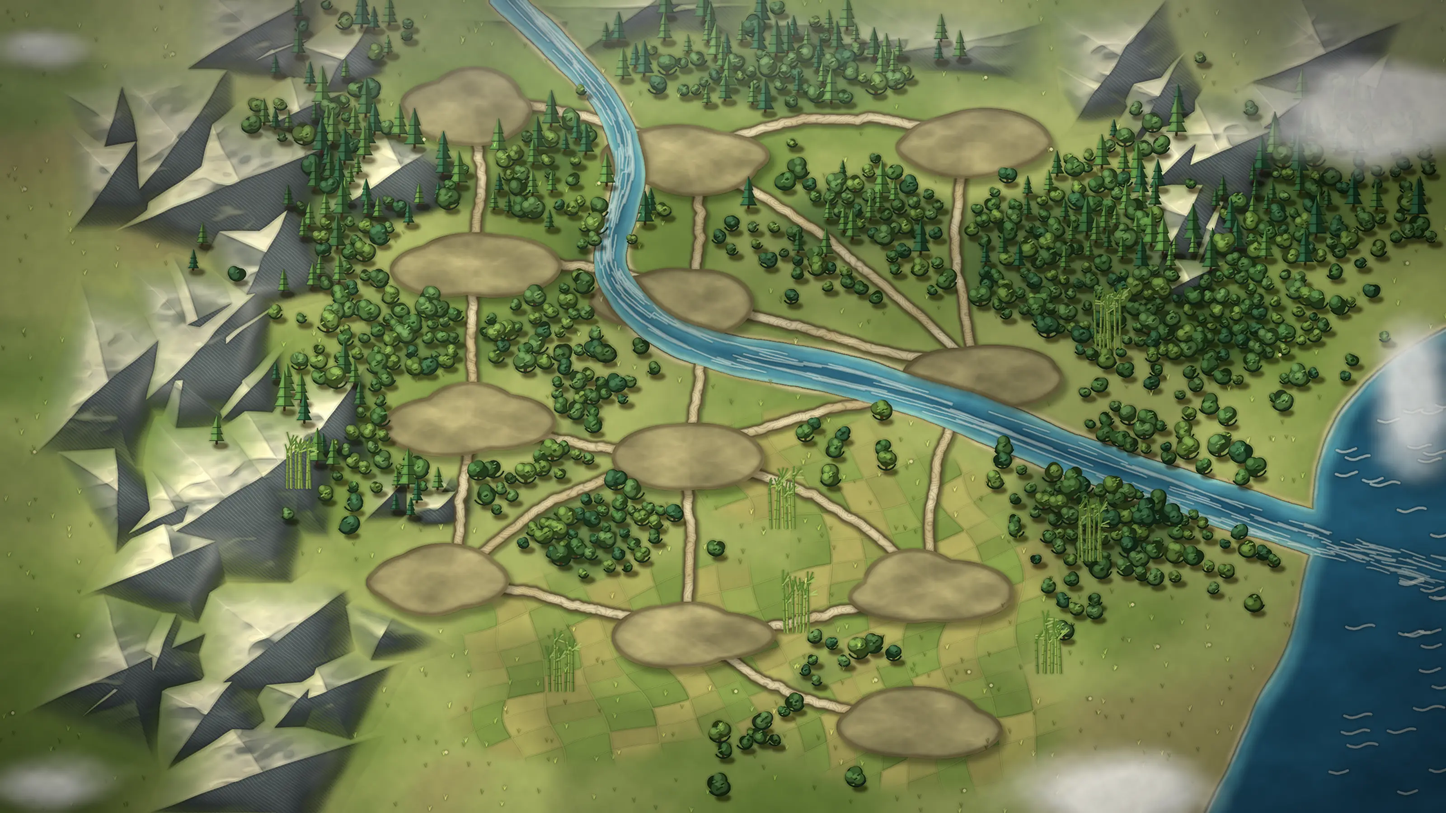
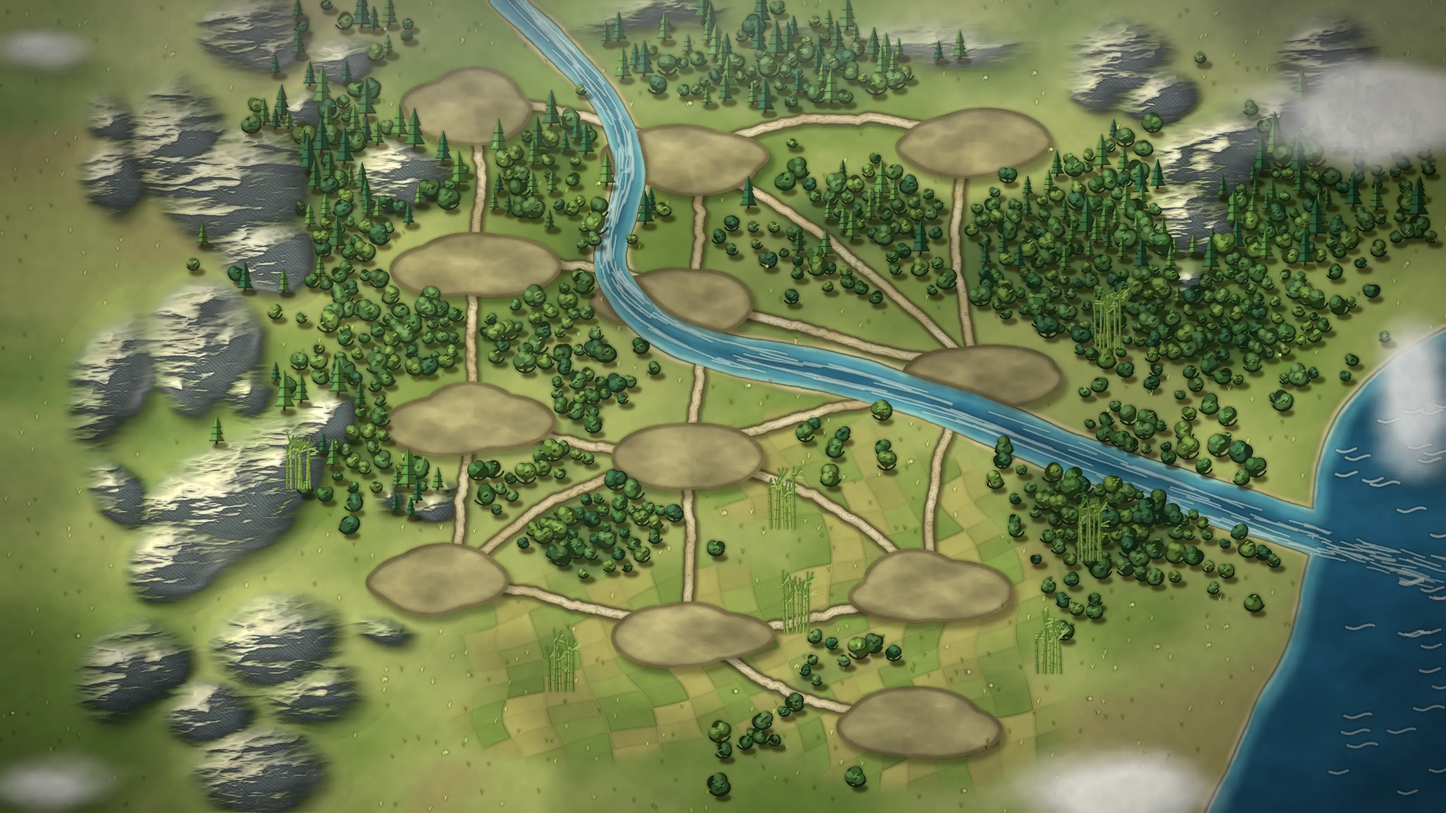
CR-004: zoom 4x with on-demand hi-res tiles, softer west mountains (RC4 local; not pushed)

diff --git a/src/ui/main.ts b/src/ui/main.ts
@@ -139,12 +139,30 @@ const FILTERS = `<filter id="inkr" x="-5%" y="-10%" width="110%" height="130%"><
 <marker id="arr" viewBox="0 0 10 10" refX="6" refY="5" markerWidth="5" markerHeight="5" orient="auto"><path d="M0,0 L10,5 L0,10Z" fill="#b0372a"/></marker>`;
 
 const cam = { z: 1, cx: 800, cy: 450 };
-const Z_MAX = 1.5; // giới hạn zoom: ảnh nền 3200px chỉ nét tới ~1.5x (xem docs/design/ui/v4/DESIGN_RESEARCH.md)
+const Z_MAX = 4; // CR-004: nền 3200px nét tới ~1.5x; trên đó nạp mảnh 6400px (4x2) theo vùng nhìn thấy
+const HI_Z = 1.6, HI_COLS = 4, HI_ROWS = 2, HI_KEEP = 6; // HI_KEEP: số mảnh giữ cùng lúc (giới hạn RAM giải mã trên điện thoại)
+const hiUrls = import.meta.glob('./assets/hi/hi_*.webp', { eager: true, query: '?url', import: 'default' }) as Record<string, string>;
 let dragged = false;
 const mapSvg = s('svg', { class: 'map', viewBox: `0 0 ${WORLD_W} ${WORLD_H}`, preserveAspectRatio: 'none', role: 'group', 'aria-label': 'Bản đồ chiến dịch' },
   s('image', { href: bgUrl, x: 0, y: 0, width: WORLD_W, height: WORLD_H, 'aria-hidden': 'true' }));
-const gRaid = s('g'), gTiles = s('g'), gTop = s('g');
-mapSvg.append(gRaid, gTiles, gTop);
+const gHi = s('g', { 'aria-hidden': 'true' }), gRaid = s('g'), gTiles = s('g'), gTop = s('g');
+mapSvg.append(gHi, gRaid, gTiles, gTop);
+const hiNodes = new Map<string, { node: SVGElement; used: number }>();
+let hiTick = 0;
+function updateHi(vx: number, vy: number, vw: number, vh: number) { // nạp mảnh nền độ phân giải cao chạm khung nhìn khi zoom sâu
+  if (cam.z < HI_Z) { gHi.replaceChildren(); hiNodes.clear(); return; }
+  const tw = WORLD_W / HI_COLS, th = WORLD_H / HI_ROWS, c0 = Math.max(0, Math.floor(vx / tw)), c1 = Math.min(HI_COLS - 1, Math.floor((vx + vw) / tw)),
+    r0 = Math.max(0, Math.floor(vy / th)), r1 = Math.min(HI_ROWS - 1, Math.floor((vy + vh) / th));
+  hiTick++;
+  for (let c = c0; c <= c1; c++) for (let r = r0; r <= r1; r++) {
+    const key = `${c}_${r}`, url = hiUrls[`./assets/hi/hi_${key}.webp`];
+    if (!url) continue;
+    let e = hiNodes.get(key);
+    if (!e) { e = { node: s('image', { href: url, x: c * tw, y: r * th, width: tw, height: th, 'aria-hidden': 'true' }), used: 0 }; hiNodes.set(key, e); gHi.append(e.node); }
+    e.used = hiTick;
+  }
+  if (hiNodes.size > HI_KEEP) [...hiNodes.entries()].sort((a, b) => a[1].used - b[1].used).slice(0, hiNodes.size - HI_KEEP).forEach(([k, e]) => { e.node.remove(); hiNodes.delete(k); });
+}
 const stage = h('div', { class: 'stage' });
 
 function camGeom() {
@@ -156,6 +174,7 @@ function applyCam() {
   const extra = vw < WORLD_W * .6 ? vh * .45 : 0; // màn hẹp: cho kéo quá mép dưới để ô được chọn không bị bảng bottom-sheet che
   cam.cx = Math.min(Math.max(cam.cx, vw / 2), WORLD_W - vw / 2); cam.cy = Math.min(Math.max(cam.cy, vh / 2), WORLD_H - vh / 2 + extra);
   mapSvg.setAttribute('viewBox', `${(cam.cx - vw / 2).toFixed(1)} ${(cam.cy - vh / 2).toFixed(1)} ${vw.toFixed(1)} ${vh.toFixed(1)}`);
+  updateHi(cam.cx - vw / 2, cam.cy - vh / 2, vw, vh);
 }
 function zoomTo(z: number, px = .5, py = .5) { // giữ nguyên điểm thế giới đang nằm dưới (px,py) của màn hình
   const g0 = camGeom(), wx = cam.cx - g0.vw / 2 + px * g0.vw, wy = cam.cy - g0.vh / 2 + py * g0.vh;

diff --git a/e2e/game.spec.ts b/e2e/game.spec.ts
@@ -193,15 +193,22 @@ for (const [name, w, h] of SIZES) {
   });
 }
 
-test('V3 thu phóng bản đồ: nút +/− và Vừa màn hình hoạt động, giới hạn ≤1.5x', async ({ page, isMobile }) => {
+test('CR-004 thu phóng bản đồ tới 4x: nút +/−, mảnh nền nét nạp theo vùng nhìn, Vừa màn hình hoàn nguyên', async ({ page, isMobile }) => {
   test.skip(isMobile, 'kiểm tra trên desktop');
   const vb = async () => (await page.locator('svg.map').getAttribute('viewBox'))!.split(' ').map(Number);
   const w0 = (await vb())[2];
-  for (let i = 0; i < 8; i++) await page.getByRole('button', { name: 'Phóng to' }).click();
+  expect(await page.locator('svg.map image').count()).toBe(1); // chưa zoom sâu: chỉ ảnh nền 3200
+  for (let i = 0; i < 12; i++) await page.getByRole('button', { name: 'Phóng to' }).click();
   const w1 = (await vb())[2];
-  expect(w1).toBeLessThan(w0); expect(w0 / w1).toBeLessThanOrEqual(1.51);
+  expect(w1).toBeLessThan(w0); expect(w0 / w1).toBeLessThanOrEqual(4.01); expect(w0 / w1).toBeGreaterThan(3.9);
+  const hi = page.locator('svg.map image').nth(1);
+  await expect(hi).toBeAttached();
+  const n = await page.locator('svg.map image').count();
+  expect(n).toBeGreaterThan(1); expect(n).toBeLessThanOrEqual(7); // nền + ≤6 mảnh
+  expect(await page.evaluate(async () => { const im = document.querySelectorAll('svg.map image')[1] as SVGImageElement; const r = await fetch(im.getAttribute('href')!); return r.ok; })).toBe(true);
   await page.getByRole('button', { name: 'Vừa màn hình' }).click();
   expect((await vb())[2]).toBeCloseTo(w0, 0);
+  expect(await page.locator('svg.map image').count()).toBe(1); // thu nhỏ lại: bỏ mảnh
 });
 
 test('V3 axe ở điện thoại nhỏ với bảng ô mở và ở hộp thoại sự kiện', async ({ page }) => {

diff --git a/docs/design/ui/v4/tools/paint_map.py b/docs/design/ui/v4/tools/paint_map.py
@@ -77,8 +77,9 @@ peaks = [  # (x, y, rx, ry, cao) — dãy núi tây (Hộ quốc tuyến), góc 
     (300, 230, 150, 130, 1.0), (390, 140, 120, 110, .85), (330, 60, 130, 90, .8), (230, 350, 130, 120, .95), (320, 470, 120, 120, .85), (250, 600, 150, 130, 1.0),
     (380, 720, 140, 110, .85), (470, 560, 80, 80, .55), (300, 810, 150, 100, .9), (170, 140, 120, 140, .8), (150, 480, 100, 150, .8), (140, 760, 120, 120, .75),
     (1260, 95, 130, 100, .85), (1370, 170, 120, 100, .9), (1310, 270, 100, 90, .7), (1500, 90, 120, 100, .8), (950, 20, 260, 80, .5), (700, 10, 240, 70, .45)]
-Hm = np.zeros((H, W), np.float32)
+Hm = np.zeros((H, W), np.float32); Hm_parts = []
 ridged = 1 - np.abs(2 * fbm(14, 6, 5) - 1)
+ridge_w = (1 - np.abs(2 * fbm(19, 22, 5, aniso=(1, 2.2)) - 1)) ** 2   # sống phụ kéo theo hướng Bắc-Nam
 wa, wb = (fbm(17, 7, 4) - .5) * 20, (fbm(18, 7, 4) - .5) * 15      # làm lệch toạ độ => sống núi răng cưa
 for pi_, (px, py, rx, ry, a) in enumerate(peaks):
     r_ = np.random.default_rng(700 + pi_)
@@ -88,9 +89,15 @@ for pi_, (px, py, rx, ry, a) in enumerate(peaks):
         ux, vy = X + wa - (px + ox), (Y + wb - (py + oy)) * 1.35
         gx2, gy2 = ux * c_ + vy * s_, -ux * s_ + vy * c_
         sc_ = (.85, .6, .5)[sub]
-        d = np.maximum(np.abs(gx2) / (rx * sc_ * .85), np.abs(gy2) / (ry * sc_ * 1.2) + .0)
-        h = a * (1.0 - .12 * sub) * np.clip(1 - d, 0, 1) * (1 + .22 * (ridged - .5))
-        Hm = np.maximum(Hm, h)
+        # CR-004 M-1: chóp tròn (siêu-elip p~2.3) thay vì kim tự tháp vuông; sống núi có nhiễu 'ridged' + khe suối; hợp các chóp bằng smooth-max (không còn nếp gấp)
+        d = (np.abs(gx2) / (rx * sc_ * .85)) ** 1.8 + (np.abs(gy2) / (ry * sc_ * 1.2)) ** 1.8
+        d = d ** (1 / 1.8)
+        h = a * (1.0 - .12 * sub) * np.clip(1 - d, 0, 1) ** .95 * (1 + .5 * (ridged - .5))
+        Hm_parts.append(h)
+_k = 12.0
+Hm = np.log1p(sum(np.expm1(_k * h_) for h_ in Hm_parts)) / _k   # smooth-max chỉ cộng phần dương: nơi không có núi vẫn = 0
+Hm = cv2.GaussianBlur(Hm, (0, 0), .7 * S)
+Hm = Hm * (.93 + .2 * ridge_w * sstep(.1, .5, Hm))   # sống núi sắc nét nhưng bo tròn (không có cạnh thẳng)
 ridge2 = 1 - np.abs(2 * fbm(15, 16, 4) - 1)
 Hh = .16 * f_lo + .06 * f_mid + Hm * (.85 + .22 * ridge2 * sstep(.1, .5, Hm))
 # làm phẳng quanh các địa điểm
@@ -144,12 +151,12 @@ fdb = cv2.GaussianBlur(fd, (0, 0), 7 * S)
 base = base * (1 - sstep(.18, .6, fdb)[..., None] * .55) + C['forest'][None, None] * sstep(.18, .6, fdb)[..., None] * .55
 
 # đá/núi
-rockm = sstep(.2, .34, Hh) * (.4 + .6 * sstep(.18, .5, slope + Hh * .5))
+rockm = sstep(.24, .52, Hh) * (.35 + .65 * sstep(.18, .55, slope + Hh * .5))
 rock_t = sstep(.2, .85, shade)
 rock_col = mixc(C['rockD'], C['rockM'], sstep(0, .5, rock_t)); rock_col = rock_col * (1 - sstep(.5, 1, rock_t)[..., None]) + C['rockL'][None, None] * sstep(.5, 1, rock_t)[..., None]
 rock_col = rock_col * (.86 + .28 * fbm(57, 46, 4))[..., None]   # vân đá (V3: bớt phẳng)
 # chân núi xanh, đỉnh xám xanh
-rock_green = (sstep(.7, .3, Hh) * (.55 + .25 * f_hi))[..., None] * .7
+rock_green = (sstep(.78, .36, Hh) * (.6 + .3 * f_hi))[..., None] * .78
 rock_col = rock_col * (1 - rock_green) + (C['forestD'][None, None] * (.7 + .5 * shade[..., None])) * rock_green
 base = base * (1 - rockm[..., None]) + rock_col * rockm[..., None]
 
@@ -420,7 +427,14 @@ imgf = np.clip((imgf - .5) * 1.1 + .5, 0, 1)
 gray = (imgf * np.array([.3, .59, .11], np.float32)).sum(-1, keepdims=True); imgf = np.clip(gray + (imgf - gray) * .84, 0, 1)  # bớt bão hòa về mức tranh vẽ (~.38)
 out = (imgf * 255 + .5).astype(np.uint8)
 if not NOSPR: Image.fromarray(out).save(os.path.join(BUILD, f'map_bg{SUF}.png'))
-if S == 2:
+TILES_DIR = os.environ.get('TILES_DIR')   # CR-004: cắt nền thành lưới 4x2 mảnh webp (hi_<cột>_<hàng>.webp) cho zoom sâu
+if TILES_DIR:
+    os.makedirs(TILES_DIR, exist_ok=True); tw, th = W // 4, H // 2
+    for c in range(4):
+        for r in range(2):
+            dst = os.path.join(TILES_DIR, f'hi_{c}_{r}.webp'); Image.fromarray(out[r * th:(r + 1) * th, c * tw:(c + 1) * tw]).save(dst, quality=int(os.environ.get('Q', 78)), method=6)
+            print('tile', c, r, os.path.getsize(dst) // 1024, 'kB')
+if S == 2 or (OUT and not TILES_DIR):
     dst = OUT or os.path.join(BUILD, '..', 'map_bg.webp')
     Image.fromarray(out).save(dst, quality=int(os.environ.get('Q', 78)), method=6)
     print('ok', os.path.getsize(dst) // 1024, 'kB webp')

diff --git a/docs/change_requests/CR-004_zoom4x_west_mountains.md b/docs/change_requests/CR-004_zoom4x_west_mountains.md
@@ -1,7 +1,7 @@
 # CR-004 — Zoom 4x và sửa núi phía tây
 
 Ngày: 2026-10-27 · Baseline: RC3 (live) · Yêu cầu: "zoom 4x và sửa núi phía tây"
-Loại: thay đổi nghệ thuật/UX (UI-1 bản đồ, camera). **Không đổi luật, sim, save, dữ liệu cân bằng.** Trạng thái: **CHỜ DUYỆT** (`approve CR-004`).
+Loại: thay đổi nghệ thuật/UX (UI-1 bản đồ, camera). **Không đổi luật, sim, save, dữ liệu cân bằng.** Trạng thái: **ĐÃ DUYỆT 2026-10-27 — đang làm**.
 
 ## Hiện trạng (thật)
 - Zoom tối đa 1,5x vì nền nướng 3200x1800 (308 kB) chỉ nét đến ~1,5x; vượt đó bị mờ (`Z_MAX` trong `src/ui/main.ts`).
@@ -29,3 +29,6 @@ Phát hành: build cục bộ (RC4). Push/deploy cần G3 mới.
 ## Câu hỏi mở
 1. Chấp nhận mốc ~1+ MB cho mảnh zoom sâu (tải theo nhu cầu)? Mặc định: có.
 2. Zoom tối đa 4x áp dụng cho cả điện thoại? Mặc định: có (cùng giới hạn).
+
+## Kết quả triển khai (2026-10-27)
+Hoàn tất Z-1..Z-3, M-1, M-2 ở mức build cục bộ (RC4). Bằng chứng: docs/qa/EVIDENCE_cr004.txt. Tải đầu ~551 kB; mảnh 4x tổng 808 kB, tải khi zoom. Hạn chế: desktop p95 khung 50 ms ở zoom 4x với CPU 4x chậm; núi vẫn procedural.

diff --git a/state/STATUS.md b/state/STATUS.md
@@ -11,4 +11,4 @@ CR-002 (choice events CMP-01): APPROVED + implemented; RC2 pushed (tag rc2) and 
 CR-003 (UI redesign): V1, V2 and V3 (UI-1..9, perf, polish) IMPLEMENTED locally (approvals: "approve CR-003: làm V1 theo thiết kế v4", "...làm V2", "...làm V3"). RC3 pushed (main 26b0268, tag rc3) and deployed to Pages (gh-pages 60b0e56) 2026-10-27 under the RC3 G3 approval. Evidence: docs/qa/EVIDENCE_cr003_v1/v2/v3.txt, screenshots docs/qa/visual/. Next: user review/playtest; any further push/deploy needs a NEW explicit G3.
 Next: playtest feedback → `update game: ...` (change request flow).
 
-CR-004 (zoom 4x + west mountains): CREATED 2026-10-27, AWAITING APPROVAL (`approve CR-004`). Doc: docs/change_requests/CR-004_zoom4x_west_mountains.md. No implementation started.
+CR-004 (zoom 4x + west mountains): APPROVED ("approve CR-004") + IMPLEMENTED locally as RC4 (commit pending/see git log), NOT pushed. Evidence docs/qa/EVIDENCE_cr004.txt. Live site is still RC3. Push needs a new G3.

diff --git a/state/APPROVALS.md b/state/APPROVALS.md
@@ -73,3 +73,9 @@
 - Exact words: "approve G3: push và deploy RC3 lên vuthehuy1997/daiviet-rising"
 - Approved: push `main` + tag `rc3` and refresh `gh-pages` on vuthehuy1997/daiviet-rising ONLY (GitHub Pages). Nothing else (other repos, purchases, paid services).
 - Status: EXECUTED 2026-10-27. Pushed main 26b0268, tag rc3, gh-pages 60b0e56 to vuthehuy1997/daiviet-rising. Credential: a token pasted by the user in chat, used only as a transient HTTP header and never stored. User should revoke it.
+
+## CR-004 — zoom 4x + west mountains approval
+- Date: 2026-10-27
+- Approver: user (as entered in session)
+- Exact words: "approve CR-004"
+- Approved: Z-1..Z-3 (4x tiled background, Z_MAX 4 incl. phone), M-1..M-2 (west mountains re-bake, before/after shots) with CR defaults (accept ~1 MB on-demand tiles). Sim/save/balance unchanged. Not authorized: push/deploy (RC4 = local build until a new G3).

diff --git a/state/CHANGELOG.md b/state/CHANGELOG.md
@@ -22,3 +22,5 @@
 
 ## 2026-10-26
 - "approve CR-003: làm V3" → V3 implemented locally (phone/landscape layouts, pinch zoom, button arc, YAML→JSON at build, tile DOM reuse, AA contrast tests + 4 colours fixed, softer west mountains). Vitest 112/112, Playwright 38 passed + 2 skipped, dist 531 kB. Not pushed/deployed.
+
+- 2026-10-27 CR-004 (RC4, local): zoom up to 4x with on-demand 4x2 hi-res background tiles; west mountains re-baked (rounded massifs). See docs/qa/EVIDENCE_cr004.txt.
